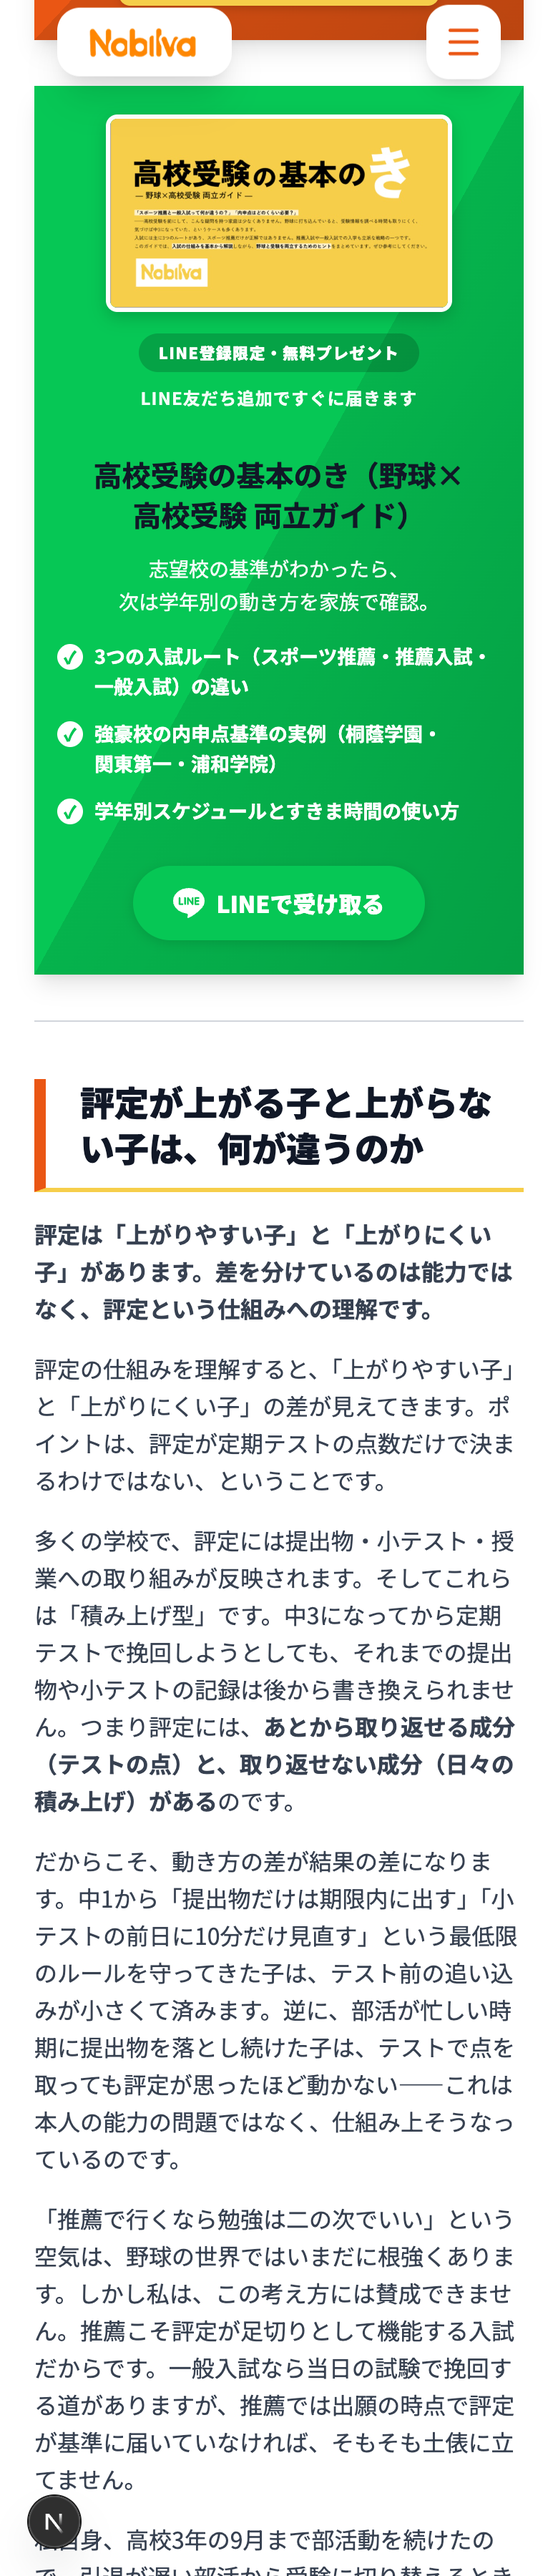
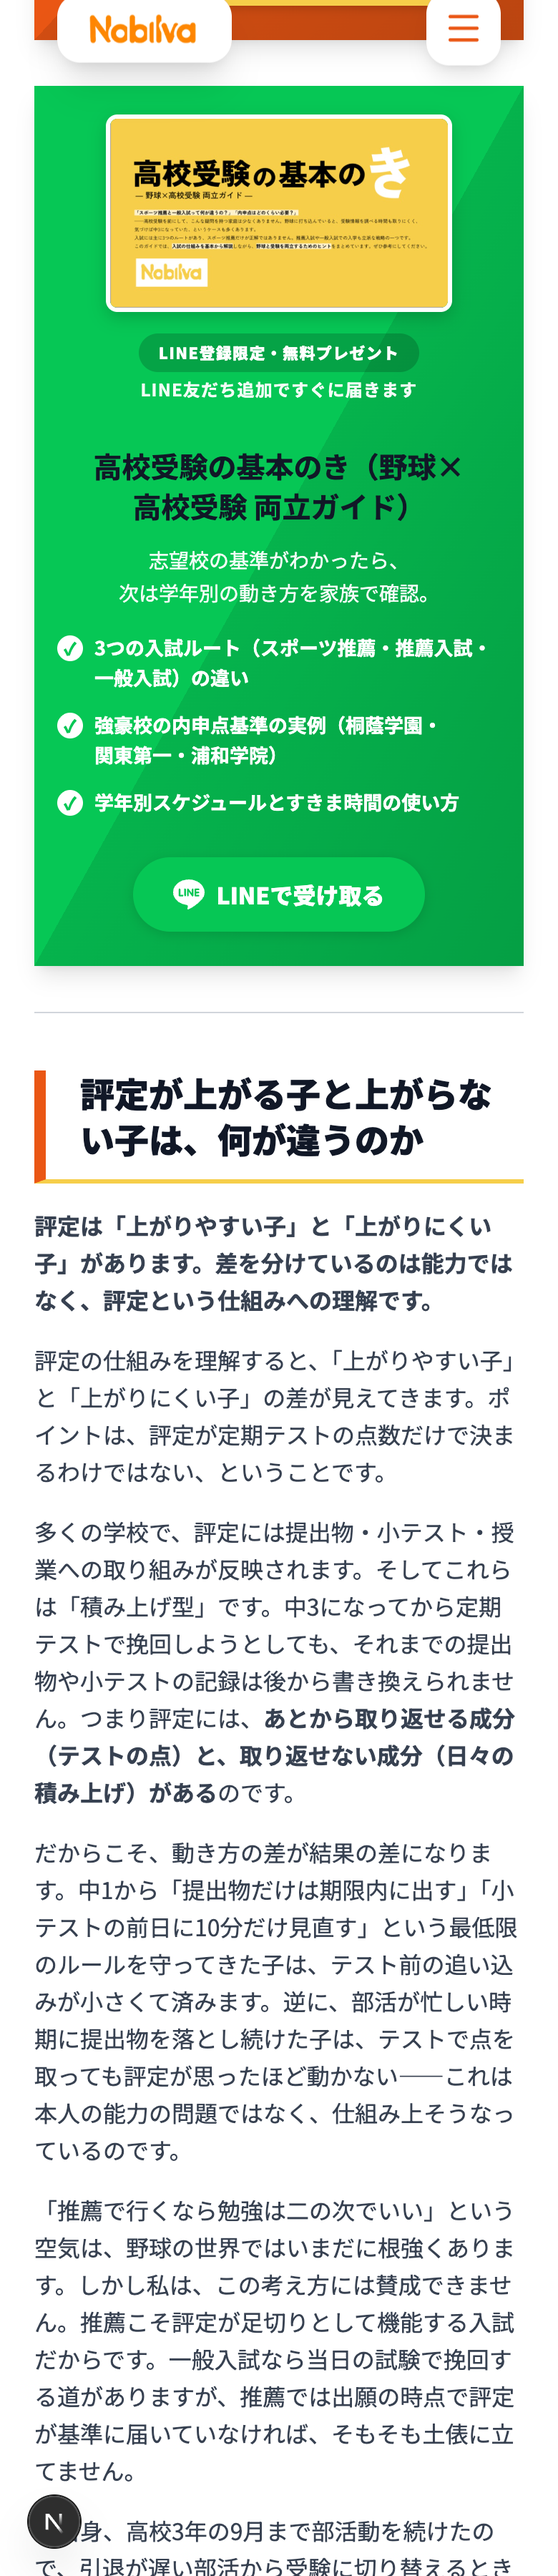
blog: LINE 特典カードの PC レイアウトを「左: 写真 + バッジ + ラベル / 右: タイトル + サブ + 3項目 / 下: ボタン + QR」の構成に調整し、バッジ下の隙間も詰める。(A) `app/globals.css` の `.cta-line-inner-gift` の grid-template-areas を再設計: `grid-template-columns: 42% 1fr`, `grid-template-areas: "thumb heading" / "thumb sub" / "badge items" / "label items" / "foo

Changed region(s): [[0.0615, 0.1244, 0.9231, 1.0], [0.0923, 0.0, 0.4, 0.0311], [0.7692, 0.0, 0.8923, 0.0311]]

diff --git a/app/globals.css b/app/globals.css
@@ -506,57 +506,60 @@
   }
   @media (min-width: 768px) {
     .cta-line-inner-gift {
-      max-width: 760px;
+      max-width: 820px;
       padding: 22px 28px 24px !important;
       display: grid !important;
-      grid-template-columns: 200px 1fr;
+      grid-template-columns: 42% 1fr;
       grid-template-areas:
-        "thumb badge"
-        "thumb label"
         "thumb heading"
         "thumb sub"
-        "thumb items"
-        "foot foot";
-      column-gap: 24px;
-      row-gap: 2px;
+        "badge items"
+        "label items"
+        "foot  foot";
+      column-gap: 28px;
+      row-gap: 4px;
       align-items: start;
       text-align: left !important;
+    }
+    .cta-line-inner-gift > .cta-line-thumb {
+      grid-area: thumb;
+      width: 100% !important;
+      max-width: 260px !important;
+      margin: 0 !important;
+      align-self: start;
+      justify-self: start;
     }
     .cta-line-inner-gift > .cta-line-badge {
       grid-area: badge;
       justify-self: start;
-      margin-bottom: 6px !important;
-    }
-    .cta-line-inner-gift > .cta-line-thumb {
-      grid-area: thumb;
-      width: 200px !important;
-      max-width: 200px !important;
+      align-self: start;
       margin: 0 !important;
-      align-self: center;
     }
     .cta-line-inner-gift > .cta-line-label {
       grid-area: label;
-      margin: 0 0 2px !important;
+      align-self: start;
+      margin: 0 !important;
     }
     .cta-line-inner-gift > .cta-line-heading {
       grid-area: heading;
       font-size: 20px !important;
-      margin: 0 0 8px !important;
+      margin: 0 !important;
     }
     .cta-line-inner-gift > .cta-line-sub {
       grid-area: sub;
-      margin: 0 0 10px !important;
+      margin: 0 !important;
     }
     .cta-line-inner-gift > .cta-line-items {
       grid-area: items;
       display: block !important;
       max-width: none !important;
       margin: 0 !important;
+      align-self: start;
     }
     .cta-line-inner-gift > .cta-line-foot {
       grid-area: foot;
       justify-content: center;
-      margin-top: 10px !important;
+      margin-top: 16px !important;
     }
   }
 

diff --git a/lib/rehype-cta-plugin.ts b/lib/rehype-cta-plugin.ts
@@ -223,7 +223,7 @@ export const rehypeCtaPlugin: Plugin<[], Root> = () => {
                     style:
                       'display:inline-block;background:rgba(0,0,0,0.18);padding:5px 14px;' +
                       'border-radius:999px;color:#fff;font-size:11px;font-weight:800;' +
-                      'letter-spacing:0.06em;margin-bottom:10px;',
+                      'letter-spacing:0.06em;margin-bottom:4px;',
                   },
                   children: [{ type: 'text' as const, value: 'LINE登録限定・無料プレゼント' }],
                 },
